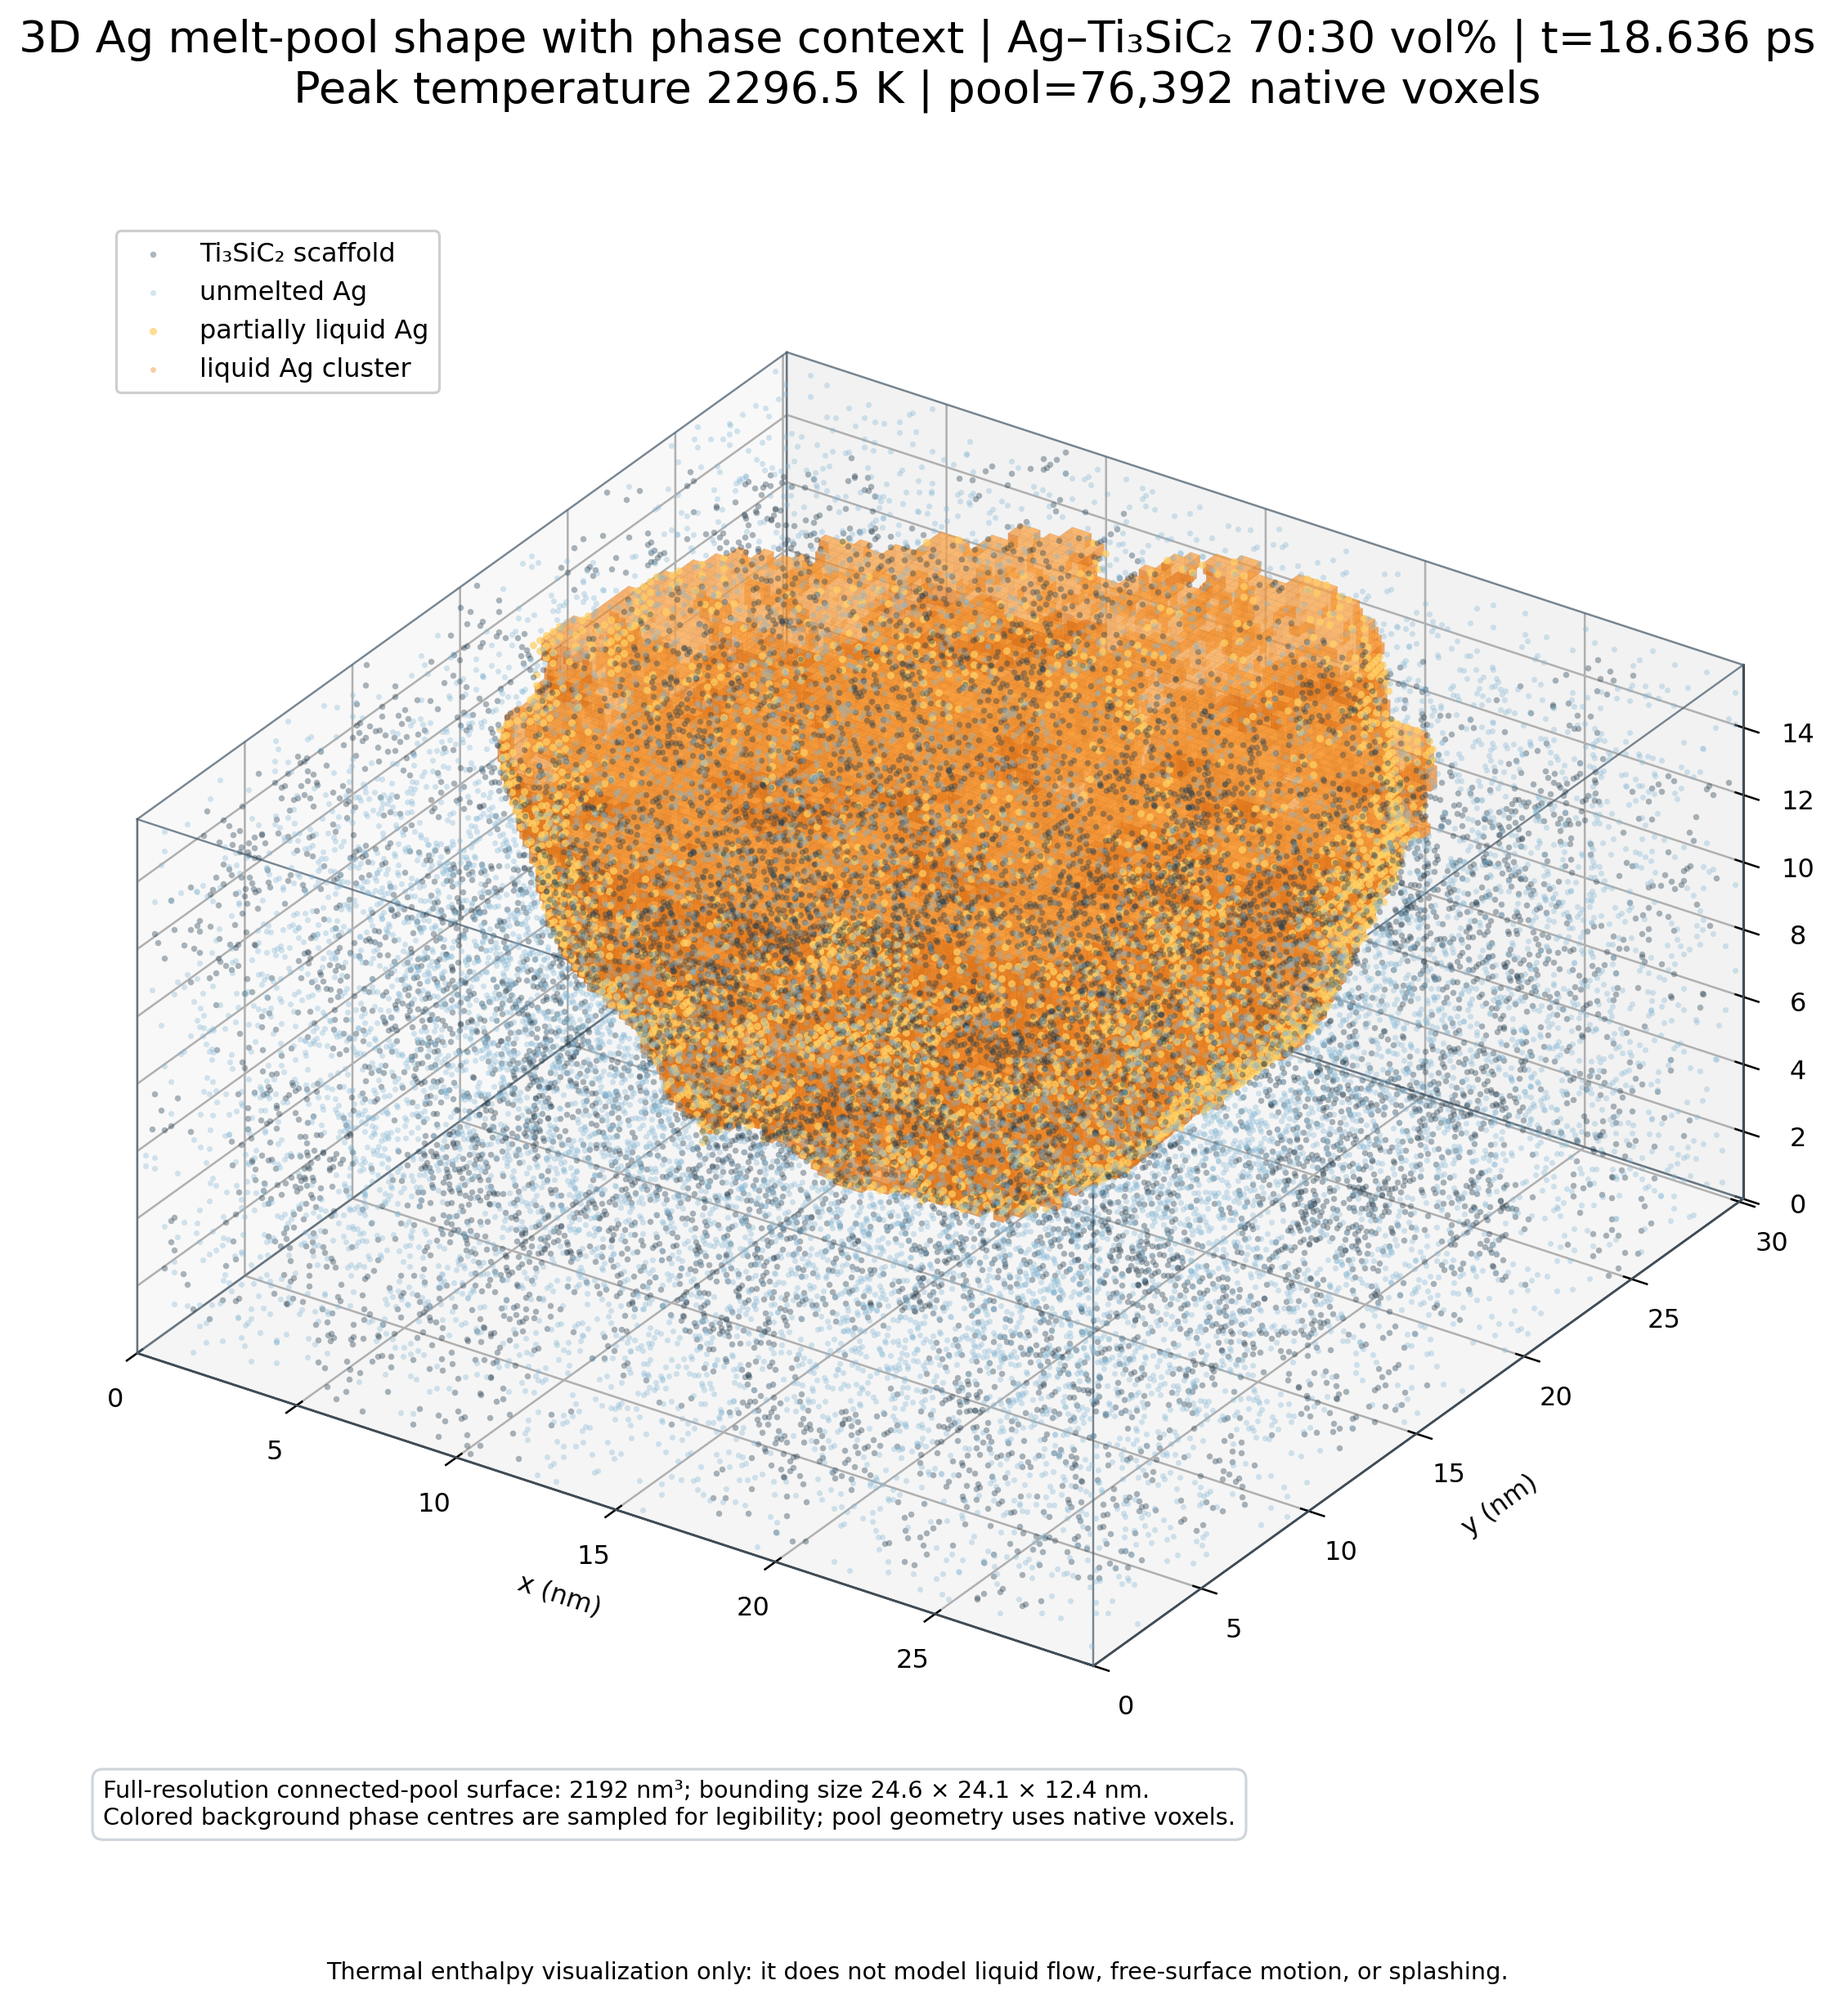
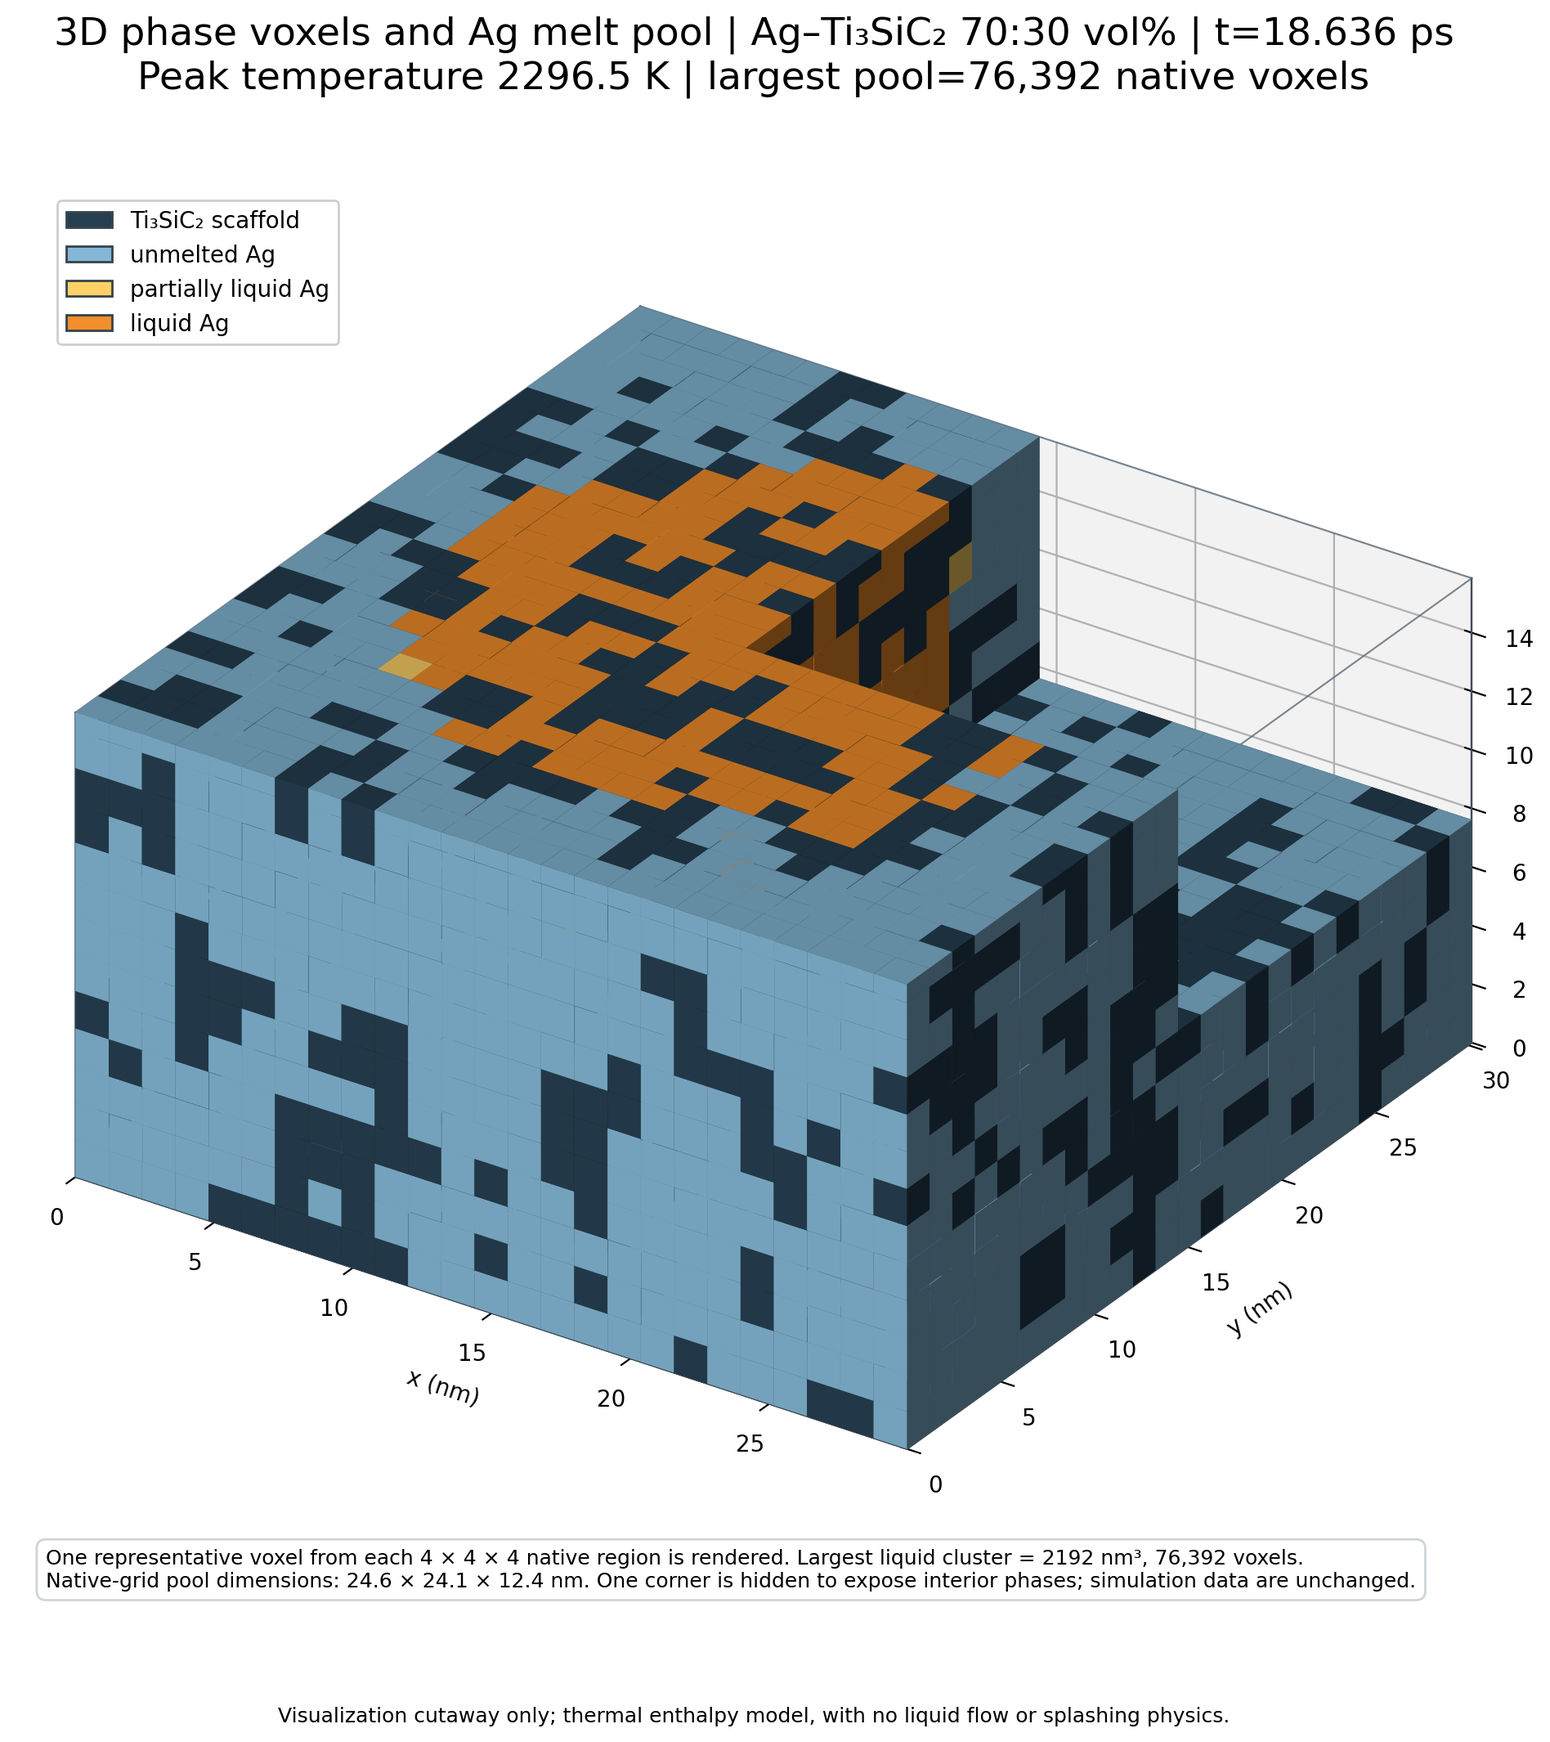
Render all Ag70 phases as 3D voxels

diff --git a/models/ag_ti3sic2_qsgs_1to1_finer/runs/single_temperature_mesh2_validation_20261027/ag70vol_1x_continue_to_2300K_20261028/render_phase_map_3d.py b/models/ag_ti3sic2_qsgs_1to1_finer/runs/single_temperature_mesh2_validation_20261027/ag70vol_1x_continue_to_2300K_20261028/render_phase_map_3d.py
@@ -1,5 +1,5 @@
 #!/usr/bin/env python3
-"""Render the 18.636 ps phase map as a 3D voxel-context figure."""
+"""Render all four phase classes as solid 3D voxel blocks with a cutaway."""
 
 from __future__ import annotations
 
@@ -10,8 +10,7 @@ import matplotlib
 matplotlib.use("Agg")
 import matplotlib.pyplot as plt
 import numpy as np
-from matplotlib.lines import Line2D
-from mpl_toolkits.mplot3d.art3d import Poly3DCollection
+from matplotlib.patches import Patch
 from scipy import ndimage
 
 
@@ -29,60 +28,6 @@ COLORS = {
 }
 
 
-def exposed_faces(mask: np.ndarray, spacing_nm: np.ndarray) -> tuple[list[np.ndarray], list[str]]:
-    """Return the exposed voxel faces for a mask, including material interfaces."""
-    polygons: list[np.ndarray] = []
-    colors: list[str] = []
-    axis_colors = {
-        (0, -1): "#db741d", (0, 1): "#ef8628",
-        (1, -1): "#e47c20", (1, 1): "#f39232",
-        (2, -1): "#e98224", (2, 1): "#ffab4c",
-    }
-    for axis in range(3):
-        other = [d for d in range(3) if d != axis]
-        for side in (-1, 1):
-            neighbor = np.roll(mask, -side, axis=axis)
-            edge = [slice(None)] * 3
-            edge[axis] = -1 if side == 1 else 0
-            neighbor[tuple(edge)] = False
-            cells = np.argwhere(mask & ~neighbor)
-            if not len(cells):
-                continue
-            quads = np.repeat(cells[:, None, :].astype(float), 4, axis=1)
-            quads[:, :, axis] += 1.0 if side == 1 else 0.0
-            for j, bits in enumerate(((0, 0), (1, 0), (1, 1), (0, 1))):
-                quads[:, j, other[0]] += bits[0]
-                quads[:, j, other[1]] += bits[1]
-            quads *= spacing_nm[None, None, :]
-            polygons.extend(quads)
-            colors.extend([axis_colors[(axis, side)]] * len(quads))
-    return polygons, colors
-
-
-def draw_pool(ax, pool: np.ndarray, spacing_nm: np.ndarray) -> None:
-    faces, shades = exposed_faces(pool, spacing_nm)
-    ax.add_collection3d(Poly3DCollection(
-        faces,
-        facecolors=shades,
-        edgecolors=(0.42, 0.20, 0.07, 0.28),
-        linewidths=0.035,
-        alpha=0.48,
-        zsort="average",
-        rasterized=True,
-    ))
-
-
-def sample_centres(mask: np.ndarray, spacing_nm: np.ndarray, maximum: int, seed: int) -> np.ndarray:
-    flat = np.flatnonzero(mask)
-    if not len(flat):
-        return np.empty((0, 3), dtype=float)
-    rng = np.random.default_rng(seed)
-    if len(flat) > maximum:
-        flat = rng.choice(flat, size=maximum, replace=False)
-    coords = np.column_stack(np.unravel_index(flat, mask.shape)).astype(float) + 0.5
-    return coords * spacing_nm[None, :]
-
-
 def add_sample_outline(ax, size_nm: np.ndarray) -> None:
     corners = np.array([
         [0, 0, 0], [1, 0, 0], [1, 1, 0], [0, 1, 0],
@@ -92,36 +37,6 @@ def add_sample_outline(ax, size_nm: np.ndarray) -> None:
              (6, 7), (7, 4), (0, 4), (1, 5), (2, 6), (3, 7))
     for i, j in edges:
         ax.plot(*corners[[i, j]].T, color="#536574", linewidth=0.75, alpha=0.78)
-
-
-def add_slice_plane(ax, phase: np.ndarray, z_index: int, spacing_nm: np.ndarray) -> None:
-    """Add the exact full-resolution XY phase slice as a plane inside the 3D domain."""
-    nx, ny = phase.shape[:2]
-    z = (z_index + 0.5) * spacing_nm[2] + 0.012  # tiny offset avoids z-fighting only
-    x, y = np.meshgrid(np.arange(nx + 1) * spacing_nm[0],
-                       np.arange(ny + 1) * spacing_nm[1], indexing="ij")
-    quads = np.empty((nx * ny, 4, 3), dtype=float)
-    quads[:, 0, 0] = x[:-1, :-1].ravel()
-    quads[:, 0, 1] = y[:-1, :-1].ravel()
-    quads[:, 1, 0] = x[1:, :-1].ravel()
-    quads[:, 1, 1] = y[1:, :-1].ravel()
-    quads[:, 2, 0] = x[1:, 1:].ravel()
-    quads[:, 2, 1] = y[1:, 1:].ravel()
-    quads[:, 3, 0] = x[:-1, 1:].ravel()
-    quads[:, 3, 1] = y[:-1, 1:].ravel()
-    quads[:, :, 2] = z
-    palette = np.array([
-        matplotlib.colors.to_rgba(COLORS["scaffold"], 0.98),
-        matplotlib.colors.to_rgba(COLORS["solid_ag"], 0.98),
-        matplotlib.colors.to_rgba(COLORS["partial_ag"], 0.98),
-        matplotlib.colors.to_rgba(COLORS["liquid_ag"], 0.98),
-    ])
-    facecolors = palette[phase[:, :, z_index].ravel()]
-    ax.add_collection3d(Poly3DCollection(
-        quads, facecolors=facecolors, edgecolors="none", zsort="average", rasterized=True
-    ))
-
-
 def main() -> None:
     if not GEOMETRY.exists() or not CHECKPOINT.exists():
         raise FileNotFoundError(f"Required geometry/checkpoint not found: {CHECKPOINT}")
@@ -157,26 +72,51 @@ def main() -> None:
     phase[partial] = 2
     phase[liquid] = 3
 
+    # Render one representative native voxel per 4x4x4 block. This makes the
+    # all-phase solid-voxel rendering light enough to run alongside the study.
+    native_shape = np.asarray(phase.shape)
+    native_edges = [np.r_[np.arange(0, n, 4), n] for n in native_shape]
+    native_centres = [(edges[:-1] + edges[1:] - 1) // 2 for edges in native_edges]
+    phase_display = phase[np.ix_(*native_centres)]
+    masks_display = (
+        phase_display == 0,
+        phase_display == 1,
+        phase_display == 2,
+        phase_display == 3,
+    )
+
+    # Remove one corner of the rendering only. This exposes interior voxels on
+    # three faces without changing the checkpoint or any reported metric.
+    visible = np.ones(phase_display.shape, dtype=bool)
+    nx, ny, nz = phase_display.shape
+    visible[nx // 2 :, ny // 2 :, nz // 2 :] = False
+
+    x, y, z = np.meshgrid(
+        native_edges[0] * spacing_nm[0],
+        native_edges[1] * spacing_nm[1],
+        native_edges[2] * spacing_nm[2],
+        indexing="ij",
+    )
+
     fig = plt.figure(figsize=(15.0, 11.0))
     ax = fig.add_subplot(1, 1, 1, projection="3d")
     ax.set_proj_type("ortho")
-
-    # Sparse centres give whole-volume context; the orange pool boundary is full resolution.
-    for mask, color, label, maximum, seed, size, alpha in (
-        (scaffold, COLORS["scaffold"], "Ti₃SiC₂ scaffold", 10500, 1, 5.5, 0.38),
-        (solid_ag, COLORS["solid_ag"], "unmelted Ag", 12500, 2, 5.0, 0.34),
-        (partial, COLORS["partial_ag"], "partially liquid Ag", 2700, 3, 8.0, 0.72),
-        (pool, COLORS["liquid_ag"], "liquid Ag cluster", 4500, 4, 4.7, 0.44),
-    ):
-        points = sample_centres(mask, spacing_nm, maximum, seed)
-        if len(points):
-            ax.scatter(points[:, 0], points[:, 1], points[:, 2], s=size, c=color,
-                       alpha=alpha, depthshade=False, linewidths=0, rasterized=True,
-                       label=label)
-    draw_pool(ax, pool, spacing_nm)
+    phase_specs = (
+        (masks_display[0], COLORS["scaffold"], "Ti₃SiC₂ scaffold"),
+        (masks_display[1], COLORS["solid_ag"], "unmelted Ag"),
+        (masks_display[2], COLORS["partial_ag"], "partially liquid Ag"),
+        (masks_display[3], COLORS["liquid_ag"], "liquid Ag"),
+    )
+    for mask, color, _label in phase_specs:
+        ax.voxels(
+            x, y, z, mask & visible,
+            facecolors=color,
+            edgecolors=(0.16, 0.22, 0.27, 0.16),
+            linewidth=0.045,
+            shade=True,
+        )
 
     add_sample_outline(ax, size_nm)
-
     ax.set_xlim(0, size_nm[0])
     ax.set_ylim(0, size_nm[1])
     ax.set_zlim(0, size_nm[2])
@@ -186,27 +126,31 @@ def main() -> None:
     ax.set_zlabel("z (nm)", labelpad=8)
     ax.view_init(elev=29, azim=-56)
     ax.grid(True, alpha=0.2)
-    ax.legend(loc="upper left", bbox_to_anchor=(0.02, 0.98), framealpha=0.96, fontsize=10)
+    ax.legend(handles=[Patch(facecolor=color, edgecolor="#36434c", label=label)
+                       for _mask, color, label in phase_specs],
+              loc="upper left", bbox_to_anchor=(0.02, 0.98), framealpha=0.96, fontsize=10)
     ax.text2D(
         0.02, 0.03,
-        f"Full-resolution connected-pool surface: {pool_volume:.0f} nm³; "
-        f"bounding size {bbox[0]:.1f} × {bbox[1]:.1f} × {bbox[2]:.1f} nm.\n"
-        "Colored background phase centres are sampled for legibility; pool geometry uses native voxels.",
+        f"One representative voxel from each 4 × 4 × 4 native region is rendered. "
+        f"Largest liquid cluster = {pool_volume:.0f} nm³, "
+        f"{pool_voxels:,} voxels.\n"
+        f"Native-grid pool dimensions: {bbox[0]:.1f} × {bbox[1]:.1f} × {bbox[2]:.1f} nm. "
+        "One corner is hidden to expose interior phases; simulation data are unchanged.",
         transform=ax.transAxes, fontsize=9, ha="left", va="bottom",
         bbox={"boxstyle": "round,pad=0.45", "facecolor": "white", "alpha": 0.88, "edgecolor": "#c8d0d6"},
     )
     fig.suptitle(
-        f"3D Ag melt-pool shape with phase context | Ag–Ti₃SiC₂ 70:30 vol% | t={time_ps:.3f} ps\n"
-        f"Peak temperature {temperature.max():.1f} K | pool={pool_voxels:,} native voxels",
+        f"3D phase voxels and Ag melt pool | Ag–Ti₃SiC₂ 70:30 vol% | t={time_ps:.3f} ps\n"
+        f"Peak temperature {temperature.max():.1f} K | largest pool={pool_voxels:,} native voxels",
         fontsize=17, y=0.96,
     )
     fig.text(
         0.5, 0.012,
-        "Thermal enthalpy visualization only: it does not model liquid flow, free-surface motion, or splashing.",
+        "Visualization cutaway only; thermal enthalpy model, with no liquid flow or splashing physics.",
         ha="center", fontsize=9,
     )
     fig.subplots_adjust(left=0.02, right=0.98, top=0.88, bottom=0.06)
-    fig.savefig(OUTPUT, dpi=230, facecolor="white", bbox_inches="tight")
+    fig.savefig(OUTPUT, dpi=200, facecolor="white", bbox_inches="tight")
     plt.close(fig)
     print(f"saved={OUTPUT}")
     print(f"t_ps={time_ps:.6f} peak_K={temperature.max():.4f} pool_voxels={pool_voxels}")

diff --git a/models/ag_ti3sic2_qsgs_1to1_finer/runs/single_temperature_mesh2_validation_20261027/ag70vol_1x_continue_to_2300K_20261028/README_3D_IMAGE.md b/models/ag_ti3sic2_qsgs_1to1_finer/runs/single_temperature_mesh2_validation_20261027/ag70vol_1x_continue_to_2300K_20261028/README_3D_IMAGE.md
@@ -2,12 +2,12 @@
 
 These images use the saved 1x Case A heating checkpoint at **18.636 ps**. Orange marks the largest face-connected Ag liquid cluster, defined by `f_liquid >= 0.5`. The 3D pool surface is transparent in the whole-sample view so the surrounding phase point clouds remain visible; the phase clouds are sampled every third voxel for display. The pool itself and the central phase slice use the original QSGS grid.
 
-The phase-aware 3D view below is a full-volume perspective rendering, not a 2D section: the orange surface is the connected liquid pool built from native voxels, and the colored background points show the Ti₃SiC₂ scaffold, unmelted Ag, and partially liquid Ag. A limited number of phase points are sampled to keep the 3D view readable; the pool geometry and its reported volume use all native voxels.
+The phase-aware 3D view renders all four phase classes as solid, color-coded voxel blocks rather than point clouds. It uses one representative native voxel from each 4 × 4 × 4 region for a legible full-volume view, with a corner cutaway exposing the interior phases. The reported pool metrics below are computed from the full native grid, not the display sampling.
 
 At this checkpoint the peak temperature is **2296.53 K**, the Ag-phase liquid fraction is **21.87%**, and the main connected pool contains **76,392 voxels (2191.8 nm³)**. Its axis-aligned dimensions are approximately **24.57 × 24.15 × 12.37 nm** (x × y × z). The horizontal slice at z = 11.26 nm distinguishes Ti3SiC2 scaffold, unmelted Ag, partially liquid Ag, and liquid Ag.
 
 - [Whole sample with transparent pool](ag70_full_model_and_pool_shape_3d_final.png)
-- [3D pool with all-phase context](ag70_phase_map_3d_18p636ps.png)
+- [3D cutaway with all phases as voxel blocks](ag70_phase_map_3d_18p636ps.png)
 - [Pool shape close-up](ag70_pool_shape_3d_final.png)
 - [Phase slice through pool center](ag70_phase_slice_through_pool_final.png)
 - [Rendering script](render_current_3d.py)
